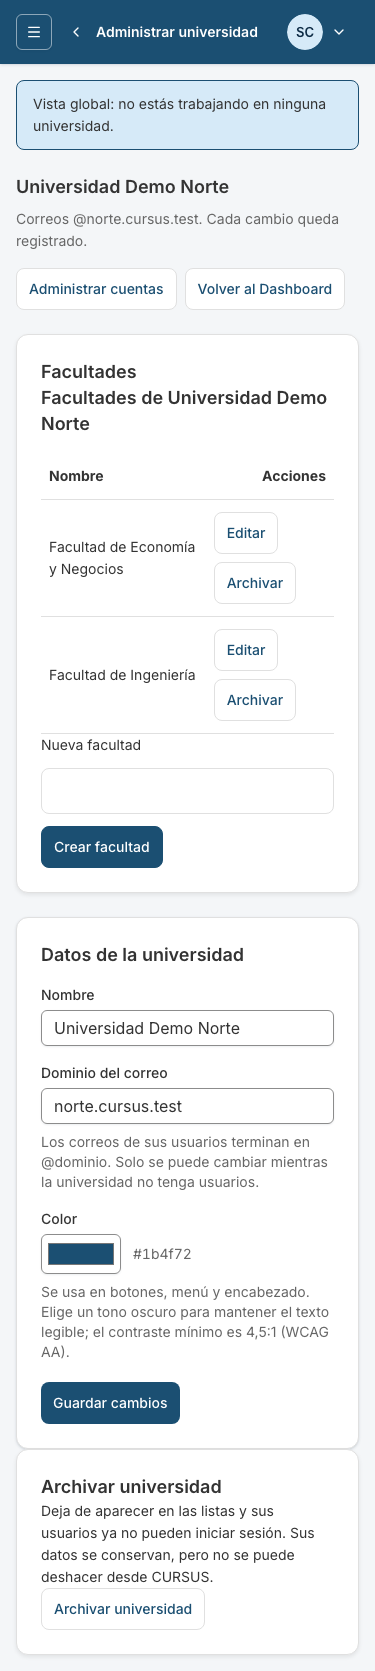
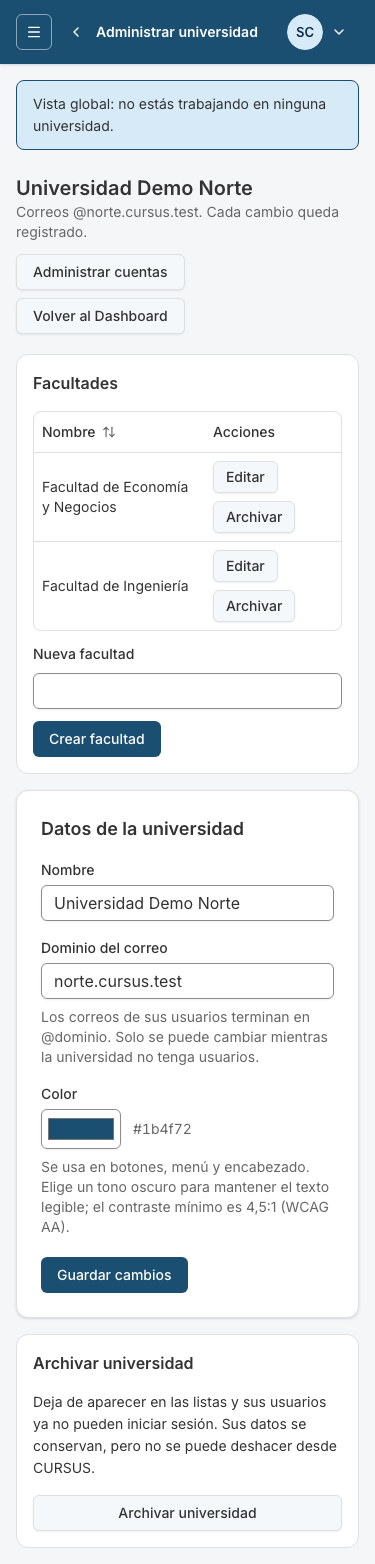
fix(ui): evita que el dashboard del director falle con una respuesta inválida

Changed region(s): [[0.0293, 0.0, 0.968, 0.9821], [0.5573, 0.2762, 0.88, 0.4297], [0.9973, 0.0307, 1.0, 0.0614]]

diff --git a/frontend/src/pages/DashboardDirector.tsx b/frontend/src/pages/DashboardDirector.tsx
@@ -25,7 +25,11 @@ export function DashboardDirector() {
   const [metricas, recargar] = useDatos<MetricasConsolidadas>(
     '/api/metricas/consolidado',
   )
-  const n = metricas?.periodos.length ?? 0
+  // Una respuesta que no es el consolidado (por ejemplo, un `[]`) se trata como
+  // un error de carga, no como datos: así la pantalla no se cae.
+  const consolidado =
+    metricas && Array.isArray(metricas.periodos) ? metricas : null
+  const n = consolidado?.periodos.length ?? 0
   return (
     <div className="grid min-w-0 gap-8">
       <PageHeader
@@ -38,27 +42,27 @@ export function DashboardDirector() {
         </h2>
         {metricas === undefined ? (
           <CargandoEsqueleto texto="Cargando indicadores…" tarjetas={3} />
-        ) : metricas === null ? (
+        ) : consolidado === null ? (
           <ErrorState
             mensaje="No pudimos cargar los indicadores."
             onReintentar={recargar}
           />
         ) : (
           <TresIndicadores
-            datos={metricas}
+            datos={consolidado}
             className="xl:grid-cols-5"
             extra={
               <>
                 <TarjetaIndicador
                   titulo="Alumnos inscritos"
-                  valor={metricas.alumnos}
+                  valor={consolidado.alumnos}
                   unidad=""
                   decimales={0}
                   detalle="En el período activo"
                 />
                 <TarjetaIndicador
                   titulo="Cursos"
-                  valor={metricas.cursos}
+                  valor={consolidado.cursos}
                   unidad=""
                   decimales={0}
                   detalle={`${n} ${n === 1 ? 'universidad' : 'universidades'} con período activo`}

diff --git a/frontend/src/pages/DashboardDirector.test.tsx b/frontend/src/pages/DashboardDirector.test.tsx
@@ -171,6 +171,25 @@ describe('Dashboard del Director', () => {
     expect(await panel.findByText('72,4')).toBeInTheDocument()
   })
 
+  // Una respuesta que no es el consolidado (un `[]`, como devuelven algunos
+  // mocks de otras pantallas) se trata como error de carga y no rompe la página.
+  test('una respuesta que no es el consolidado se trata como error, sin romper la página', async () => {
+    await renderConSesion('DIRECTOR', '/', {
+      [CONSOLIDADO]: () => [],
+      [UNIVERSIDADES]: () => ({}),
+    })
+    const panel = within(await dashboard())
+    expect(
+      await panel.findByText('No pudimos cargar los indicadores.'),
+    ).toBeInTheDocument()
+    expect(
+      await panel.findByText('No pudimos cargar las universidades.'),
+    ).toBeInTheDocument()
+    expect(
+      panel.getByRole('region', { name: 'Accesos directos' }),
+    ).toBeInTheDocument()
+  })
+
   test('si las universidades fallan, ofrece reintentar', async () => {
     let intentos = 0
     await renderConSesion('DIRECTOR', '/', {

diff --git a/frontend/src/pages/Indicadores.tsx b/frontend/src/pages/Indicadores.tsx
@@ -119,7 +119,7 @@ export function ListaUniversidades({
       <h2 className={SUBTITULO}>Universidades</h2>
       {universidades === undefined ? (
         <CargandoEsqueleto texto="Cargando universidades…" filas={2} />
-      ) : universidades === null ? (
+      ) : universidades === null || !Array.isArray(universidades) ? (
         <ErrorState
           mensaje="No pudimos cargar las universidades."
           onReintentar={recargar}

diff --git a/docs/ui-09-superadmin.md b/docs/ui-09-superadmin.md
@@ -48,7 +48,7 @@ Recorrido de todas las pantallas del rol antes de migrar, con la aplicación loc
 9. Sin hallazgos de comportamiento: menú, encabezado, 404 y redirección de rutas de otro rol son correctos para el rol, a 1280 y 375 px.
 10. Observaciones de `navigation.ts`, que no se cambia: el ítem de `/cursos` se llama «Mis Cursos» para el Superadmin, aunque la página se titula «Gestión académica» y no tiene cursos propios; y el menú dice «Dashboard» (en inglés) para todos los roles, como en el Figma. `/secciones` no está en el menú y para el Superadmin muestra Gestión académica.
 
-**Páginas de UI/UX-07 (solo se verifican, no se tocan)**
+**Páginas de UI/UX-07 (solo se verifican, no se tocan; vistas antes de que se mergeara UI/UX-07)**
 
 11. Administrar universidad: el encabezado de la tarjeta de facultades se repite («Facultades» y «Facultades de Universidad Demo Norte»); el campo «Nueva facultad» no tiene texto de ayuda; hereda el selector de color de la observación 7.
 12. Cuentas de universidad: lista todas las cuentas en una sola página, sin paginación ni búsqueda (11 193 px de alto a 1280 px y 16 551 px a 375 px con las 70 cuentas del seed); tiene dos `<select>` nativos; la tabla de seis columnas queda muy apretada a 375 px.
@@ -84,7 +84,7 @@ Recorrido de todas las pantallas del rol antes de migrar, con la aplicación loc
 
 - **Tarjetas en vez de `DataTable`:** el Dashboard no es un listado para leer sino el lugar donde se elige en qué facultad trabajar; cada universidad es una tarjeta con sus facultades como acciones. Una tabla obligaría a esconder esas acciones en una celda.
 - **Sin `ConfirmDialog`:** las páginas exclusivas del Superadmin no tienen acciones destructivas. Archivar una universidad o una facultad vive en Administrar universidad (UI/UX-07), donde corresponde su confirmación.
-- **Editar una universidad, Administrar universidad y Cuentas** son de UI/UX-07 (aunque las use el Superadmin) y no se tocaron. Sus hallazgos están arriba (11 y 12). El único archivo compartido que sí se migró es `FormularioUniversidad.tsx`; UI/UX-07 puede encontrarlo ya migrado.
+- **Editar una universidad, Administrar universidad y Cuentas** son de UI/UX-07 (aunque las use el Superadmin) y no se tocaron. Sus hallazgos (11 a 13) son de antes de que se mergeara UI/UX-07; las capturas «después» de esas pantallas ya muestran su migración. El único archivo compartido que sí se migró aquí es `FormularioUniversidad.tsx`: UI/UX-07 también lo había migrado (con `Label` e `Input`) y, al sincronizar con `develop`, se conservó esta versión, que suma `FormField`, la alerta de peligro, `aria-invalid` en el color y el valor elegido, con las mismas props y textos.
 - **`Dashboard.css` y `Carreras.css` se conservan:** otras pantallas los siguen usando.
 - **Accesos directos a Carreras, Períodos y Profesores:** no se repiten en el Dashboard porque ya están en el menú lateral, que es la fuente única (`navigation.ts`).
 
